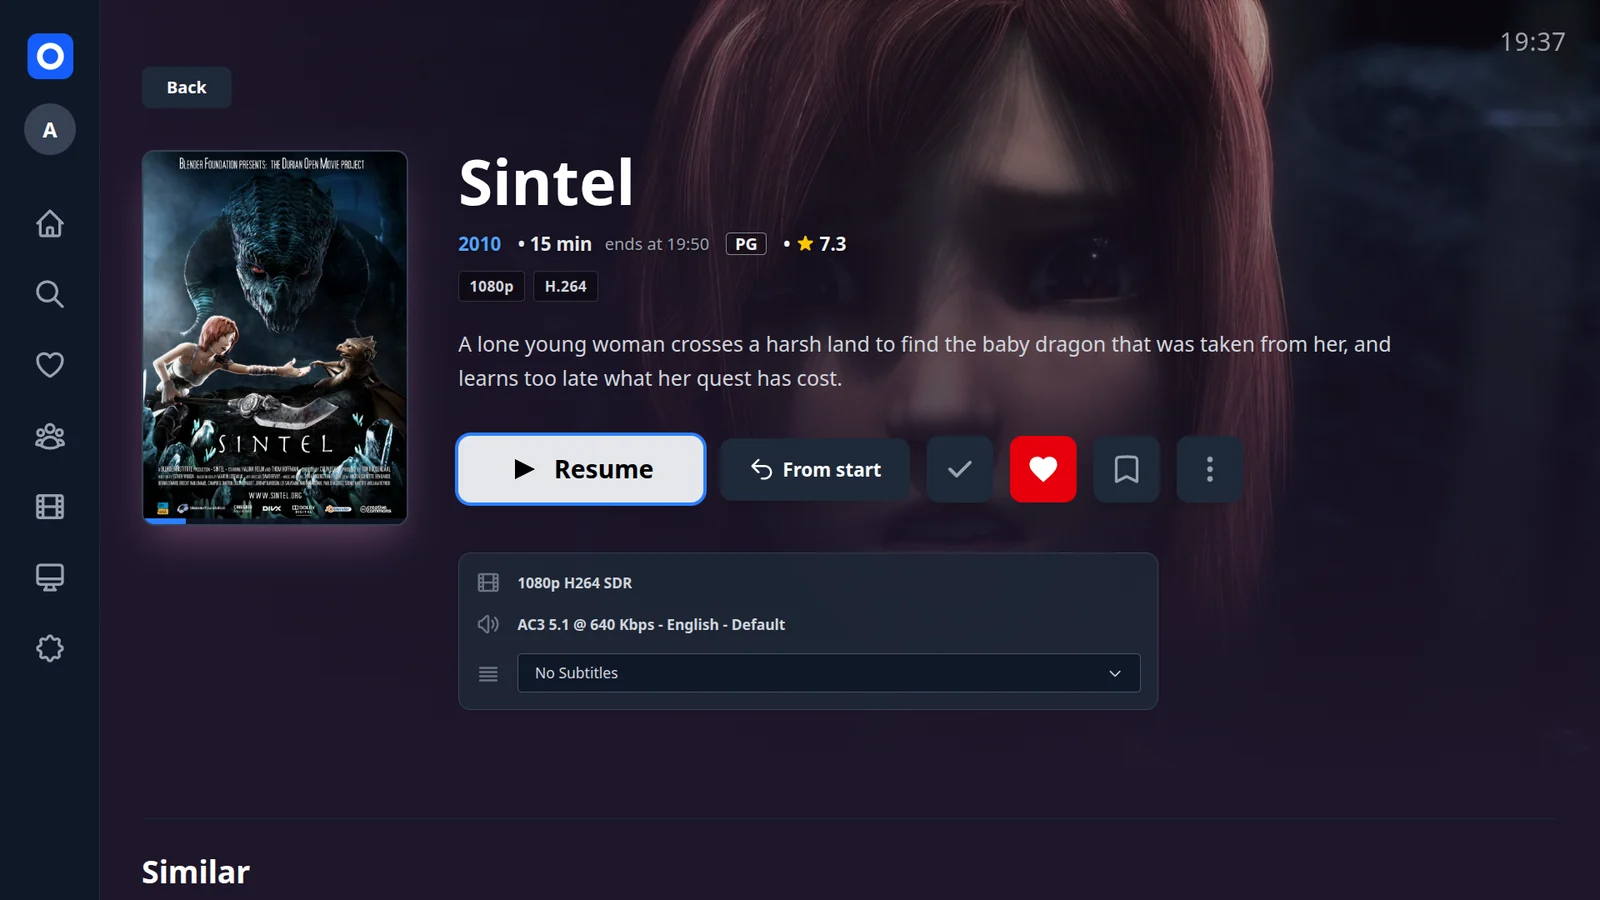
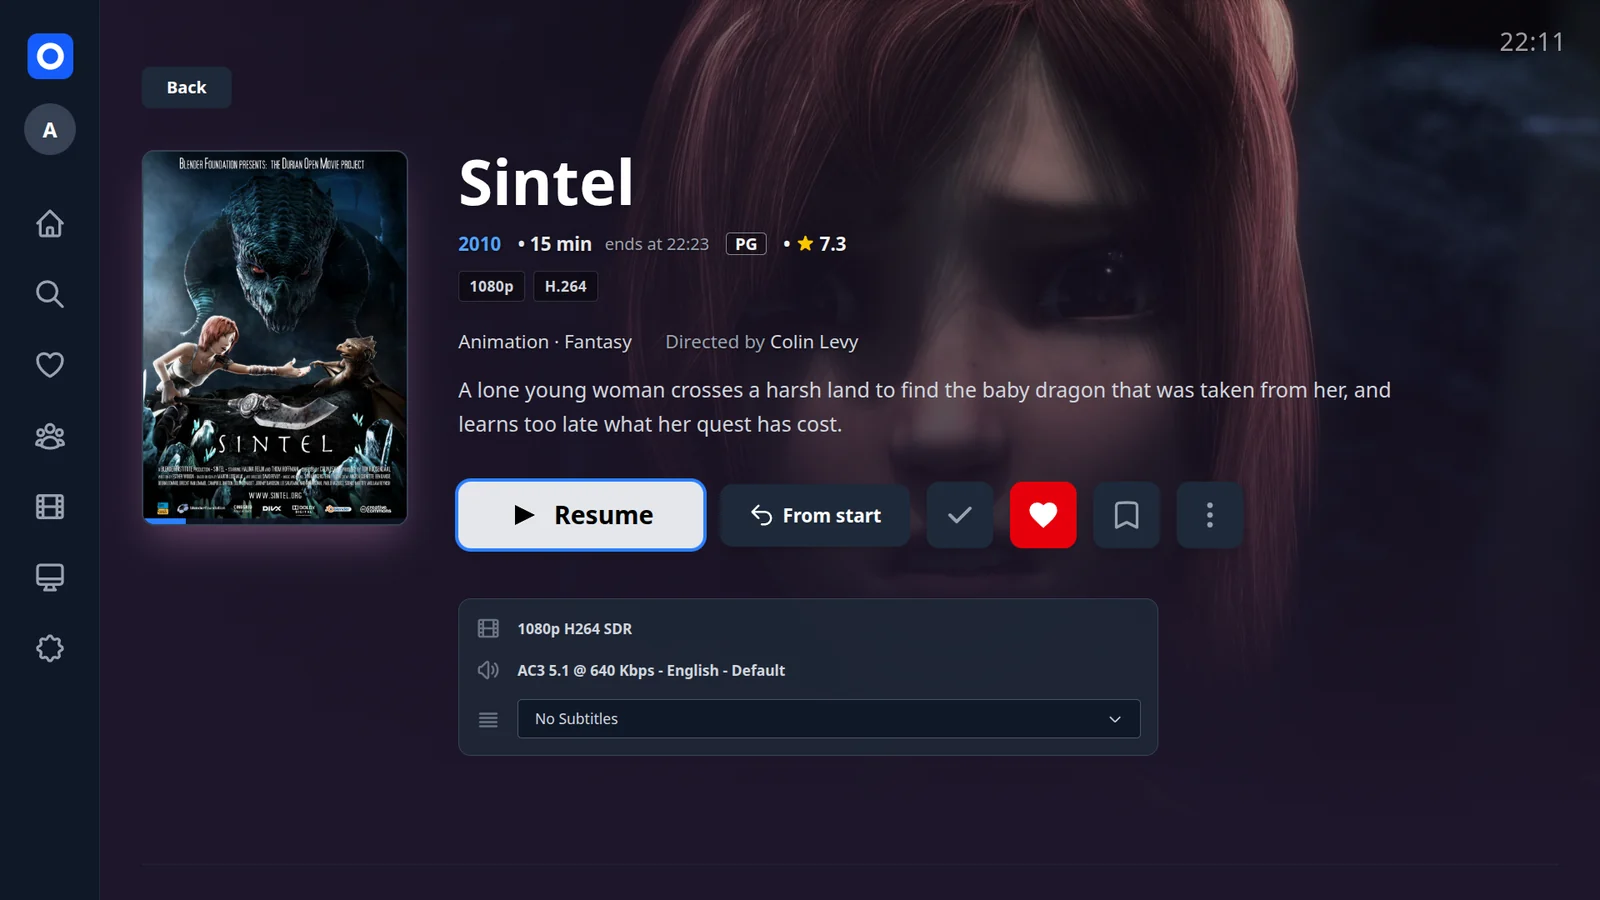
Genres and director on the title page
A quiet line above the plot names up to three genres, as the library's info preview already did, and who directed the title. Writers and studios are left out on purpose. The README's title page screenshot is retaken.

diff --git a/src/components/Details.svelte b/src/components/Details.svelte
@@ -448,6 +448,20 @@
     return [...byId.values()].slice(0, 20);
   });
 
+  // Genres and direction, one quiet line above the plot (CODE-HEALTH §135): the genres the library's info preview
+  // shows, plus who directed it — both come with /Items/{id}. Three at most each (an anthology names a dozen
+  // directors); a director is listed once per Id, like the cast. Writers and studios left out on purpose.
+  let genreLine = $derived((fullItem?.Genres || []).slice(0, 3).join(' · '));
+  let directors = $derived.by(() => {
+    const names = [...new Map((fullItem?.People || []).filter(p => p.Type === 'Director' && p.Name)
+      .map(p => [p.Id || p.Name, p.Name])).values()];
+    if (!names.length) return null;
+    const list = names.length > 3 ? names.slice(0, 3).join(', ') + ' …'
+      : new Intl.ListFormat(i18n.lang, { type: 'conjunction' }).format(names);
+    const [pre, post = ''] = i18n.t.directedBy.split('{names}');
+    return { pre, list, post };
+  });
+
   function closeTrailer() {
     trailerEmbedUrl = null;
     const el = trailerOpener;
@@ -1129,6 +1143,13 @@
               {#each techBadges as badge (badge.label)}
                 <span class="px-2.5 py-1 rounded text-sm font-bold tracking-wide border {badge.premium ? 'bg-white/15 border-white/30 text-white' : 'bg-black/40 border-white/15 text-gray-300'}">{badge.label}</span>
               {/each}
+            </div>
+          {/if}
+
+          {#if genreLine || directors}
+            <div class="max-w-4xl flex flex-wrap gap-x-8 gap-y-1 text-lg text-gray-300 mb-4 [text-shadow:0_1px_4px_rgba(0,0,0,0.75)]">
+              {#if genreLine}<span>{genreLine}</span>{/if}
+              {#if directors}<span><span class="text-gray-400">{directors.pre}</span>{directors.list}<span class="text-gray-400">{directors.post}</span></span>{/if}
             </div>
           {/if}
 

diff --git a/src/locales/pt-BR.js b/src/locales/pt-BR.js
@@ -60,6 +60,7 @@ export default {
     subtitleDownloading: "Baixando…",
     subtitleApplying: "Baixado — adicionando ao título…",
     subtitleAddedLater: "Salvo. Vai aparecer aqui assim que o servidor ler o arquivo.",
+    directedBy: "Direção: {names}",
 
     // Player
     nextEpisode: "Próximo episódio",

diff --git a/src/locales/ru.js b/src/locales/ru.js
@@ -280,6 +280,7 @@ export default {
     people: "Люди",
     appearsIn: "Фильмография",
     cast: "Актёры",
+    directedBy: "Режиссёр: {names}",
     searchHistory: "Недавние запросы",
     clearHistory: "Очистить историю",
 

diff --git a/src/locales/uk.js b/src/locales/uk.js
@@ -280,6 +280,7 @@ export default {
     people: "Люди",
     appearsIn: "Фільмографія",
     cast: "Актори",
+    directedBy: "Режисер: {names}",
     searchHistory: "Нещодавні пошуки",
     clearHistory: "Очистити історію",
 

diff --git a/src/locales/fr.js b/src/locales/fr.js
@@ -280,6 +280,7 @@ export default {
     people: "Personnes",
     appearsIn: "Apparaît dans",
     cast: "Distribution",
+    directedBy: "Réalisation : {names}",
     searchHistory: "Recherches récentes",
     clearHistory: "Effacer l'historique",
 

diff --git a/src/locales/hu.js b/src/locales/hu.js
@@ -280,6 +280,7 @@ export default {
     people: "Személyek",
     appearsIn: "Szerepel ezekben",
     cast: "Szereplők",
+    directedBy: "Rendező: {names}",
     searchHistory: "Legutóbbi keresések",
     clearHistory: "Előzmények törlése",
 

diff --git a/src/locales/fi.js b/src/locales/fi.js
@@ -280,6 +280,7 @@ export default {
     people: "Henkilöt",
     appearsIn: "Esiintyy nimikkeissä",
     cast: "Näyttelijät",
+    directedBy: "Ohjaus: {names}",
     searchHistory: "Viimeisimmät haut",
     clearHistory: "Tyhjennä historia",
 

diff --git a/src/locales/tr.js b/src/locales/tr.js
@@ -280,6 +280,7 @@ export default {
     people: "Kişiler",
     appearsIn: "Yer aldığı yapımlar",
     cast: "Oyuncular",
+    directedBy: "Yönetmen: {names}",
     searchHistory: "Son aramalar",
     clearHistory: "Geçmişi temizle",
 

diff --git a/src/locales/pl.js b/src/locales/pl.js
@@ -280,6 +280,7 @@ export default {
     people: "Osoby",
     appearsIn: "Występuje w",
     cast: "Obsada",
+    directedBy: "Reżyseria: {names}",
     searchHistory: "Ostatnie wyszukiwania",
     clearHistory: "Wyczyść historię",
 

diff --git a/src/locales/da.js b/src/locales/da.js
@@ -280,6 +280,7 @@ export default {
     people: "Personer",
     appearsIn: "Medvirker i",
     cast: "Medvirkende",
+    directedBy: "Instruktion: {names}",
     searchHistory: "Seneste søgninger",
     clearHistory: "Ryd historik",
 

diff --git a/src/locales/es.js b/src/locales/es.js
@@ -280,6 +280,7 @@ export default {
     people: "Personas",
     appearsIn: "Aparece en",
     cast: "Reparto",
+    directedBy: "Dirección: {names}",
     searchHistory: "Búsquedas recientes",
     clearHistory: "Borrar historial",
 

diff --git a/src/locales/nl.js b/src/locales/nl.js
@@ -280,6 +280,7 @@ export default {
     people: "Personen",
     appearsIn: "Verschijnt in",
     cast: "Cast",
+    directedBy: "Regie: {names}",
     searchHistory: "Recente zoekopdrachten",
     clearHistory: "Geschiedenis wissen",
 
